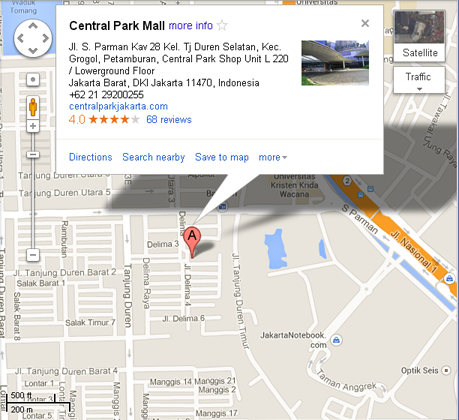
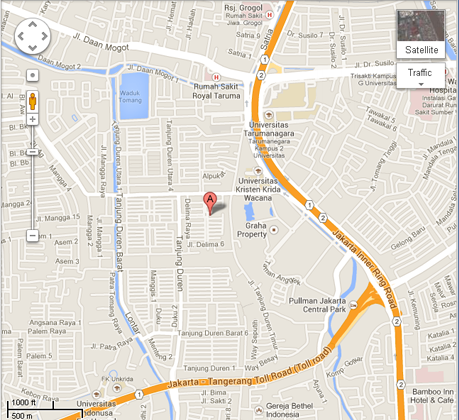
add widget

diff --git a/about.html b/about.html
@@ -6,9 +6,34 @@
 <link rel="stylesheet" type="text/css" href="css/default.css">
 <meta http-equiv="Content-Type" content="text/html; charset=utf-8" />
 <title>MAKE UP HOUSE</title>
+<script type="text/javascript">
+<!--
+function MM_swapImgRestore() { //v3.0
+  var i,x,a=document.MM_sr; for(i=0;a&&i<a.length&&(x=a[i])&&x.oSrc;i++) x.src=x.oSrc;
+}
+function MM_preloadImages() { //v3.0
+  var d=document; if(d.images){ if(!d.MM_p) d.MM_p=new Array();
+    var i,j=d.MM_p.length,a=MM_preloadImages.arguments; for(i=0; i<a.length; i++)
+    if (a[i].indexOf("#")!=0){ d.MM_p[j]=new Image; d.MM_p[j++].src=a[i];}}
+}
+
+function MM_findObj(n, d) { //v4.01
+  var p,i,x;  if(!d) d=document; if((p=n.indexOf("?"))>0&&parent.frames.length) {
+    d=parent.frames[n.substring(p+1)].document; n=n.substring(0,p);}
+  if(!(x=d[n])&&d.all) x=d.all[n]; for (i=0;!x&&i<d.forms.length;i++) x=d.forms[i][n];
+  for(i=0;!x&&d.layers&&i<d.layers.length;i++) x=MM_findObj(n,d.layers[i].document);
+  if(!x && d.getElementById) x=d.getElementById(n); return x;
+}
+
+function MM_swapImage() { //v3.0
+  var i,j=0,x,a=MM_swapImage.arguments; document.MM_sr=new Array; for(i=0;i<(a.length-2);i+=3)
+   if ((x=MM_findObj(a[i]))!=null){document.MM_sr[j++]=x; if(!x.oSrc) x.oSrc=x.src; x.src=a[i+2];}
+}
+//-->
+</script>
 </head>
 
-<body>
+<body onload="MM_preloadImages('Assets/location2.png')">
 <div style="background-image:url(Assets/Logo.png); width:1024px;height:180px; color:#e3b025;">
 	<ul id="MenuBar1" class="MenuBarHorizontal">
 	  <li><a href="home.html">Home</a></li>
@@ -40,7 +65,7 @@ Line 2&nbsp;: 021-89012342<br/>
 Fax&nbsp;&nbsp;&nbsp;&nbsp;&nbsp;: 051342334<br/>
 </p>
 </div>
-<div class="imageLocation"></div>
+<a href="#" onmouseout="MM_swapImgRestore()" onmouseover="MM_swapImage('location','','Assets/location2.png',1)"><img src="Assets/location.png" alt="locationMap" name="location" width="459" height="420" border="0" id="location" /></a>
 <br/>
 <h4>Our new color</h4>
 <p>For fulfill our commitment enhancing natural beauty of Asian girl and women<br/>
@@ -62,7 +87,9 @@ As our reference web. Your website is so beautiful!
 For your cool beauty tips!
 </div>
 <div class="footer">
+<a href="https://www.facebook.com"><img src="./Assets/facebookWidget.png" alt="clock" class="facebook"/>&nbsp;&nbsp;&nbsp;Like us in facebook</a><br/>
 &nbsp;&nbsp;frgunawan &copy; Binus University 2014
+<img src="./Assets/ClockWidget.png" class="clock" alt="clock"/>
 </div>
 <script type="text/javascript">
 <!--

diff --git a/tips.html b/tips.html
@@ -25,7 +25,8 @@
   <br/><br/><br/><br/><br/><br/><br/>
   <h2>&nbsp;&nbsp;&nbsp;&nbsp;&nbsp;30 Beauty Tips</h2>
 </div>
-<div class="content" style="width:500px;">
+<div class="content" style="height:3800px;">
+<div class="tips" style="width:500px; float:left;">
 <h4>Eye Cream Is Great For Cuticles</h4>
 <p>Instead of spending money on cuticle cream, you can use extra-moisturizing and hydrating eye cream to cure dry cuticles.
 
@@ -144,10 +145,13 @@ This will help open up hair follicles and will soften hairs so they're less coar
 <h4>Soften Skin</h4>
 <p>Immediately after stepping out of a shower, pool or lake/ocean, apply some sort of cream to skin.
 Water washes away the skin's natural oils and applying moisture cream will prevent skin chapping.</p>
- 
+</div>
+<div class="toTop"><a href="#MenuBar1"><img src="./Assets/toTop.png" alt="toTop"/></a></div>
 </div>
 <div class="footer">
+<a href="https://www.facebook.com"><img src="./Assets/facebookWidget.png" alt="clock" class="facebook"/>&nbsp;&nbsp;&nbsp;Like us in facebook</a><br/>
 &nbsp;&nbsp;frgunawan &copy; Binus University 2014
+<img src="./Assets/ClockWidget.png" class="clock" alt="clock"/>
 </div>
 <script type="text/javascript">
 <!--

diff --git a/registration.html b/registration.html
@@ -66,7 +66,7 @@
 		<td><textarea name="address" placeholder="Address"></textarea></td>
 	</tr>
 	<tr>
-		<td colspan="2"><label>Term & Condition</label></td><td>:</td>
+		<td colspan="1"><label>Term & Condition</label></td><td colspan="2">:</td>
 	</tr>
 	<tr rowspan="2">
 		<td colspan="3"><label>We will keep your personal data safe. The information only used for us to know you more and recovery password need.</label></td>
@@ -81,7 +81,9 @@
 </form>
 </div>
 <div class="footer">
+<a href="https://www.facebook.com"><img src="./Assets/facebookWidget.png" alt="clock" class="facebook"/>&nbsp;&nbsp;&nbsp;Like us in facebook</a><br/>
 &nbsp;&nbsp;frgunawan &copy; Binus University 2014
+<img src="./Assets/ClockWidget.png" class="clock" alt="clock"/>
 </div>
 <script type="text/javascript">
 <!--

diff --git a/css/default.css b/css/default.css
@@ -143,12 +143,23 @@ div .thanksLetter{
 div .thanksLetter a{
     color:#e3b025;
 }
-.imageLocation {
-    width:459px;
-	height:420px;
-    margin-left: 300px;
-    background-image:url("../Assets/location2.png");
+
+div.footer img.clock{
+	width:80px;
+	float:right;
+	padding-right:100px;
+	padding-bottom: 15px;
 }
-.imageLocation:hover{
-	background-image:url("../Assets/location.png");
+
+div.footer img.facebook{
+	width:50px;
+	padding-left:50px;
+}
+
+div.toTop{
+	width:50px;
+	height:80px;
+	float:right;
+	position:fixed;
+	margin-left: 800px;
 }

diff --git a/sucess.html b/sucess.html
@@ -31,7 +31,9 @@
 <center><H3>Registration Sucess</H3></center>
 </div>
 <div class="footer">
+<a href="https://www.facebook.com"><img src="./Assets/facebookWidget.png" alt="clock" class="facebook"/>&nbsp;&nbsp;&nbsp;Like us in facebook</a><br/>
 &nbsp;&nbsp;frgunawan &copy; Binus University 2014
+<img src="./Assets/ClockWidget.png" class="clock" alt="clock"/>
 </div>
 <script type="text/javascript">
 <!--

diff --git a/product.html b/product.html
@@ -54,7 +54,9 @@ table{
 </table>
 </div>
 <div class="footer">
+<a href="https://www.facebook.com"><img src="./Assets/facebookWidget.png" alt="clock" class="facebook"/>&nbsp;&nbsp;&nbsp;Like us in facebook</a><br/>
 &nbsp;&nbsp;frgunawan &copy; Binus University 2014
+<img src="./Assets/ClockWidget.png" class="clock" alt="clock"/>
 </div>
 <script type="text/javascript">
 <!--

diff --git a/home.html b/home.html
@@ -41,7 +41,9 @@
 </div>
 </div>
 <div class="footer">
+<a href="https://www.facebook.com"><img src="./Assets/facebookWidget.png" alt="clock" class="facebook"/>&nbsp;&nbsp;&nbsp;Like us in facebook</a><br/>
 &nbsp;&nbsp;frgunawan &copy; Binus University 2014
+<img src="./Assets/ClockWidget.png" class="clock" alt="clock"/>
 </div>
 <script type="text/javascript">
 <!--

diff --git a/css/registration.css b/css/registration.css
@@ -10,8 +10,8 @@ textarea{
 	height: 40px;
 }
 table{
-padding-left: 80px;
-width: 500px;
+padding: 30px 30px 30px 30px;
+width: 530px;
 height: 480px;
 margin: 0 auto;
 background-color: #464545;
